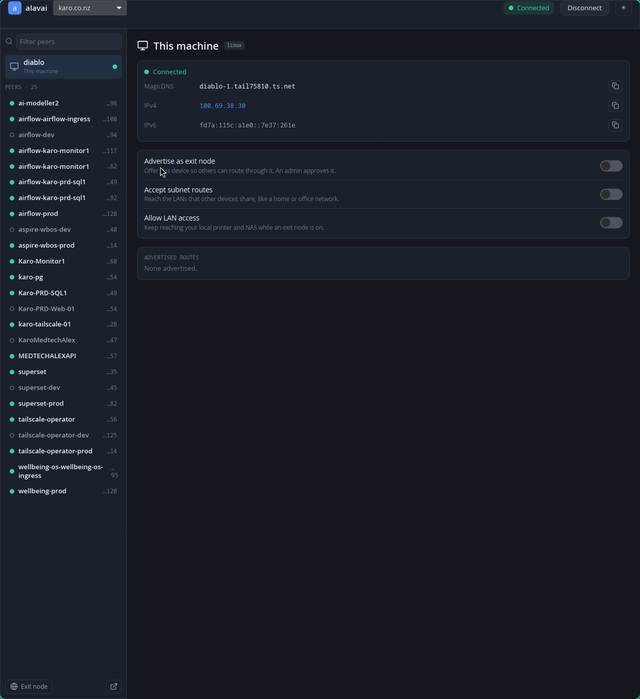
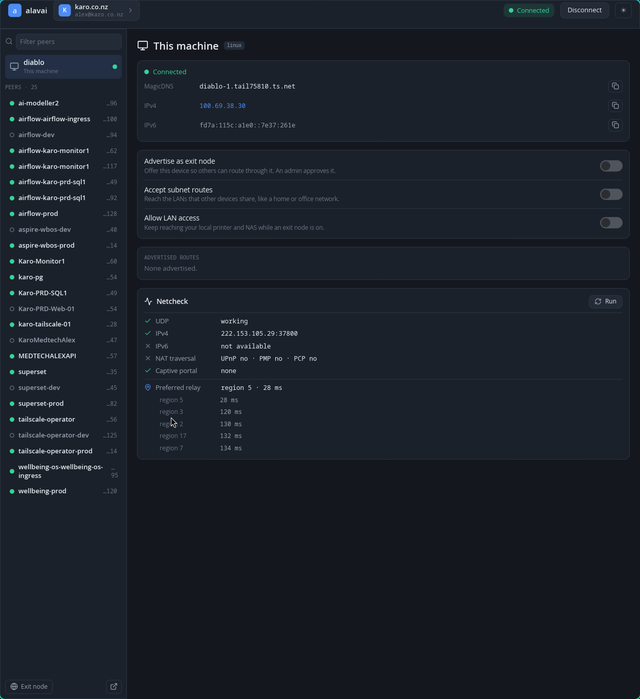
GUI: netcheck panel + operator/daemon-down robustness states
Diagnostics:
- Netcheck card on "This machine": Run button, pass/fail rows (UDP,
  IPv4/IPv6 with public addrs, NAT traversal, captive portal), preferred
  relay and the nearest-region latency list. Wired to localapi::netcheck()
  via a Task; verified live.

Robustness states (from the design):
- Operator-not-set banner — detects when this Linux user isn't the
  Tailscale operator (compares prefs OperatorUser to $USER) and shows an
  amber banner with the fix command (copy), Recheck, and dismiss.
- Daemon-down state — when tailscaled is unreachable, the detail pane
  shows a clear "Can't reach Tailscale" with Retry instead of an empty
  window.

Snapshot gains `reachable` and `operator_ok`; three icons added
(triangle-alert, activity, wifi-off). All three states verified by
rendering over Wayland; screenshots refreshed.

diff --git a/src/gui.rs b/src/gui.rs
@@ -18,7 +18,7 @@ use iced::{Center, Color, Element, Fill, Font, Length, Padding, Size, Subscripti
 use iced::alignment::{Horizontal, Vertical};
 
 use crate::icon::{self, icon};
-use crate::localapi::{Client, Profile};
+use crate::localapi::{self, Client, NetcheckReport, Profile};
 use crate::theme::{self, Palette};
 
 const ADMIN_URL: &str = "https://login.tailscale.com/admin";
@@ -53,6 +53,10 @@ struct GuiSnapshot {
     peers: Vec<PeerView>,
     /// Pending interactive-login URL from the bus (set while adding/logging in).
     login_url: Option<String>,
+    /// False when the local tailscaled daemon couldn't be reached.
+    reachable: bool,
+    /// False when this Linux user isn't the Tailscale operator.
+    operator_ok: bool,
 }
 
 #[derive(Debug, Clone)]
@@ -104,6 +108,11 @@ struct State {
     confirm_remove: Option<String>,
     /// Last login URL we already opened, to avoid reopening on every refresh.
     last_login_url: Option<String>,
+    /// Latest netcheck result, and whether one is running.
+    netcheck: Option<NetcheckReport>,
+    netcheck_running: bool,
+    /// Whether the operator-permission banner has been dismissed this session.
+    operator_dismissed: bool,
 }
 
 #[derive(Debug, Clone)]
@@ -132,6 +141,11 @@ enum Message {
     ConfirmRemove(String),
     CancelRemove,
     AddTailnet,
+    // Diagnostics & robustness
+    RunNetcheck,
+    NetcheckDone(Option<NetcheckReport>),
+    DismissOperator,
+    Retry,
 }
 
 // ---------------------------------------------------------------------------
@@ -142,6 +156,12 @@ fn fetch_gui(client: &Client) -> GuiSnapshot {
     let status = client.status().ok();
     let prefs = client.prefs().ok();
     let online = status.as_ref().is_some_and(|s| s.online());
+    let reachable = status.is_some();
+    let operator_ok = match (std::env::var("USER").ok(), prefs.as_ref()) {
+        (Some(user), Some(p)) => p.operator_user == user,
+        // If we can't determine it, don't nag.
+        _ => true,
+    };
 
     let (machine, fqdn, os) = match status.as_ref().and_then(|s| s.self_node.as_ref()) {
         Some(n) => (n.hostname.clone(), n.dns_name.trim_end_matches('.').to_string(), n.os.clone()),
@@ -198,6 +218,8 @@ fn fetch_gui(client: &Client) -> GuiSnapshot {
         advertised_routes: prefs.as_ref().map(|p| p.subnet_routes()).unwrap_or_default(),
         peers,
         login_url: None,
+        reachable,
+        operator_ok,
     }
 }
 
@@ -235,6 +257,9 @@ fn boot() -> (State, Task<Message>) {
             manage: false,
             confirm_remove: None,
             last_login_url: None,
+            netcheck: None,
+            netcheck_running: false,
+            operator_dismissed: false,
         },
         Task::none(),
     )
@@ -401,6 +426,22 @@ fn update(state: &mut State, message: Message) -> Task<Message> {
                 delayed_clear(),
             ])
         }
+        Message::RunNetcheck => {
+            state.netcheck_running = true;
+            Task::perform(async { localapi::netcheck().ok() }, Message::NetcheckDone)
+        }
+        Message::NetcheckDone(report) => {
+            state.netcheck_running = false;
+            if report.is_some() {
+                state.netcheck = report;
+            }
+            Task::none()
+        }
+        Message::DismissOperator => {
+            state.operator_dismissed = true;
+            Task::none()
+        }
+        Message::Retry => act(|_| {}),
     }
 }
 
@@ -421,7 +462,11 @@ fn view(state: &State) -> Element<'_, Message> {
 
     let body = row![sidebar(state, p), detail(state, p)].height(Fill);
 
-    let mut root = column![header(state, p), body];
+    let mut root = column![header(state, p)];
+    if !state.snap.operator_ok && !state.operator_dismissed {
+        root = root.push(operator_banner(p));
+    }
+    root = root.push(body);
 
     if let Some(t) = &state.toast {
         root = root.push(
@@ -656,6 +701,16 @@ fn sidebar(state: &State, p: Palette) -> Element<'_, Message> {
 }
 
 fn detail(state: &State, p: Palette) -> Element<'_, Message> {
+    if !state.snap.reachable {
+        return container(daemon_down(p))
+            .padding(20)
+            .width(Fill)
+            .height(Fill)
+            .center_x(Fill)
+            .center_y(Fill)
+            .into();
+    }
+
     let content = match &state.selection {
         Selection::ThisMachine => this_machine(state, p),
         Selection::ExitNode => exit_picker(state, p),
@@ -735,9 +790,106 @@ fn this_machine(state: &State, p: Palette) -> Element<'static, Message> {
         }
     }
 
-    column![title, card(ident.into(), p), card(settings.into(), p), card(routes.into(), p)]
-        .spacing(16)
-        .into()
+    column![
+        title,
+        card(ident.into(), p),
+        card(settings.into(), p),
+        card(routes.into(), p),
+        card(netcheck_card(state, p), p),
+    ]
+    .spacing(16)
+    .into()
+}
+
+/// The netcheck (connectivity diagnostics) card.
+fn netcheck_card(state: &State, p: Palette) -> Element<'static, Message> {
+    let run = button(
+        row![
+            icon(icon::REFRESH, 14.0, p.text2),
+            text(if state.netcheck_running { "Running…" } else { "Run" }).size(12),
+        ]
+        .spacing(6)
+        .align_y(Center),
+    )
+    .style(theme::secondary_btn(p))
+    .padding([5, 12])
+    .on_press_maybe((!state.netcheck_running).then_some(Message::RunNetcheck));
+
+    let head = row![
+        icon(icon::ACTIVITY, 16.0, p.text),
+        text("Netcheck").size(13.5).font(SEMI).color(p.text),
+        Space::new().width(Fill),
+        run,
+    ]
+    .spacing(8)
+    .align_y(Center);
+
+    let mut col = column![head].spacing(8);
+
+    if let Some(r) = &state.netcheck {
+        let bool_row = |label: &str, ok: bool, detail: String| -> Element<'static, Message> {
+            let (glyph, color) = if ok { (icon::CHECK, p.online) } else { (icon::CLOSE, p.text3) };
+            row![
+                icon(glyph, 14.0, color),
+                text(label.to_string()).size(12.5).color(p.text2).width(Length::Fixed(120.0)),
+                text(detail).size(12.5).font(MONO).color(p.text),
+            ]
+            .spacing(8)
+            .align_y(Center)
+            .into()
+        };
+        let opt = |b: Option<bool>| match b {
+            Some(true) => "yes",
+            Some(false) => "no",
+            None => "—",
+        };
+        col = col.push(divider(p));
+        col = col.push(bool_row("UDP", r.udp, if r.udp { "working".into() } else { "blocked".into() }));
+        col = col.push(bool_row("IPv4", r.ipv4, r.global_v4.clone()));
+        col = col.push(bool_row("IPv6", r.ipv6, if r.ipv6 { r.global_v6.clone() } else { "not available".into() }));
+        col = col.push(bool_row(
+            "NAT traversal",
+            r.upnp == Some(true) || r.pmp == Some(true) || r.pcp == Some(true),
+            format!("UPnP {} · PMP {} · PCP {}", opt(r.upnp), opt(r.pmp), opt(r.pcp)),
+        ));
+        col = col.push(bool_row(
+            "Captive portal",
+            r.captive_portal != Some(true),
+            if r.captive_portal == Some(true) { "detected".into() } else { "none".into() },
+        ));
+
+        // Preferred relay + nearest latencies.
+        let mut lats: Vec<(&String, &i64)> = r.region_latency.iter().collect();
+        lats.sort_by_key(|(_, ns)| **ns);
+        col = col.push(divider(p));
+        if let Some((region, ns)) = lats.first() {
+            col = col.push(
+                row![
+                    icon(icon::PIN, 14.0, p.accent),
+                    text("Preferred relay").size(12.5).color(p.text2).width(Length::Fixed(120.0)),
+                    text(format!("region {region} · {:.0} ms", **ns as f64 / 1e6)).size(12.5).font(MONO).color(p.text),
+                ]
+                .spacing(8)
+                .align_y(Center),
+            );
+        }
+        for (region, ns) in lats.iter().take(5) {
+            col = col.push(
+                row![
+                    Space::new().width(22),
+                    text(format!("region {region}")).size(12).color(p.text3).width(Length::Fixed(110.0)),
+                    text(format!("{:.0} ms", **ns as f64 / 1e6)).size(12).font(MONO).color(p.text2),
+                ]
+                .spacing(8),
+            );
+        }
+    } else if !state.netcheck_running {
+        col = col.push(text("Run a connectivity check.").size(12.5).color(p.text3));
+    } else {
+        col = col.push(text("Testing connectivity…").size(12.5).color(p.text3));
+    }
+
+    col.into()
 }
 
 fn peer_detail(peer: &PeerView, p: Palette) -> Element<'static, Message> {
@@ -1023,6 +1175,62 @@ fn confirm_block(name: &str, id: &str, p: Palette) -> Element<'static, Message> 
         border: iced::Border { color: p.danger, width: 1.0, radius: 7.0.into() },
         ..Default::default()
     })
+    .into()
+}
+
+/// Amber banner shown when the user isn't the Tailscale operator.
+fn operator_banner(p: Palette) -> Element<'static, Message> {
+    const CMD: &str = "sudo tailscale set --operator=$USER";
+    container(
+        row![
+            icon(icon::WARN, 18.0, p.warn),
+            column![
+                text("alavai can't control Tailscale yet").size(13).font(SEMI).color(p.text),
+                text("Your Linux user isn't the Tailscale operator, so most actions are disabled.")
+                    .size(11.5)
+                    .color(p.text2),
+            ]
+            .spacing(1),
+            Space::new().width(Fill),
+            button(text(CMD).size(11.5).font(MONO).color(p.text))
+                .style(theme::secondary_btn(p))
+                .padding([5, 10])
+                .on_press(Message::Copy(CMD.to_string())),
+            button(text("Recheck").size(12).color(Color::WHITE))
+                .style(theme::primary_btn(p))
+                .padding([5, 12])
+                .on_press(Message::Retry),
+            button(icon(icon::CLOSE, 14.0, p.text2))
+                .style(theme::small_btn(p))
+                .padding([5, 7])
+                .on_press(Message::DismissOperator),
+        ]
+        .spacing(10)
+        .align_y(Center),
+    )
+    .padding([8, 16])
+    .width(Fill)
+    .style(move |_| container::Style {
+        background: Some(with_alpha(p.warn, 0.12).into()),
+        border: iced::Border { color: with_alpha(p.warn, 0.4), width: 1.0, radius: 0.0.into() },
+        ..Default::default()
+    })
+    .into()
+}
+
+/// Centered state shown when the local daemon can't be reached.
+fn daemon_down(p: Palette) -> Element<'static, Message> {
+    column![
+        icon(icon::WIFI_OFF, 40.0, p.danger),
+        text("Can't reach Tailscale").size(18).font(SEMI).color(p.text),
+        text("The tailscaled service doesn't seem to be running.").size(13).color(p.text2),
+        button(text("Retry").size(13).color(Color::WHITE))
+            .style(theme::primary_btn(p))
+            .padding([7, 16])
+            .on_press(Message::Retry),
+    ]
+    .spacing(12)
+    .align_x(Center)
     .into()
 }
 

diff --git a/src/icon.rs b/src/icon.rs
@@ -32,6 +32,9 @@ icons! {
     PIN => "map-pin.svg",
     POWER => "power.svg",
     REFRESH => "refresh-cw.svg",
+    WARN => "triangle-alert.svg",
+    ACTIVITY => "activity.svg",
+    WIFI_OFF => "wifi-off.svg",
 }
 
 /// Builds a square, single-colour icon at the given pixel size.